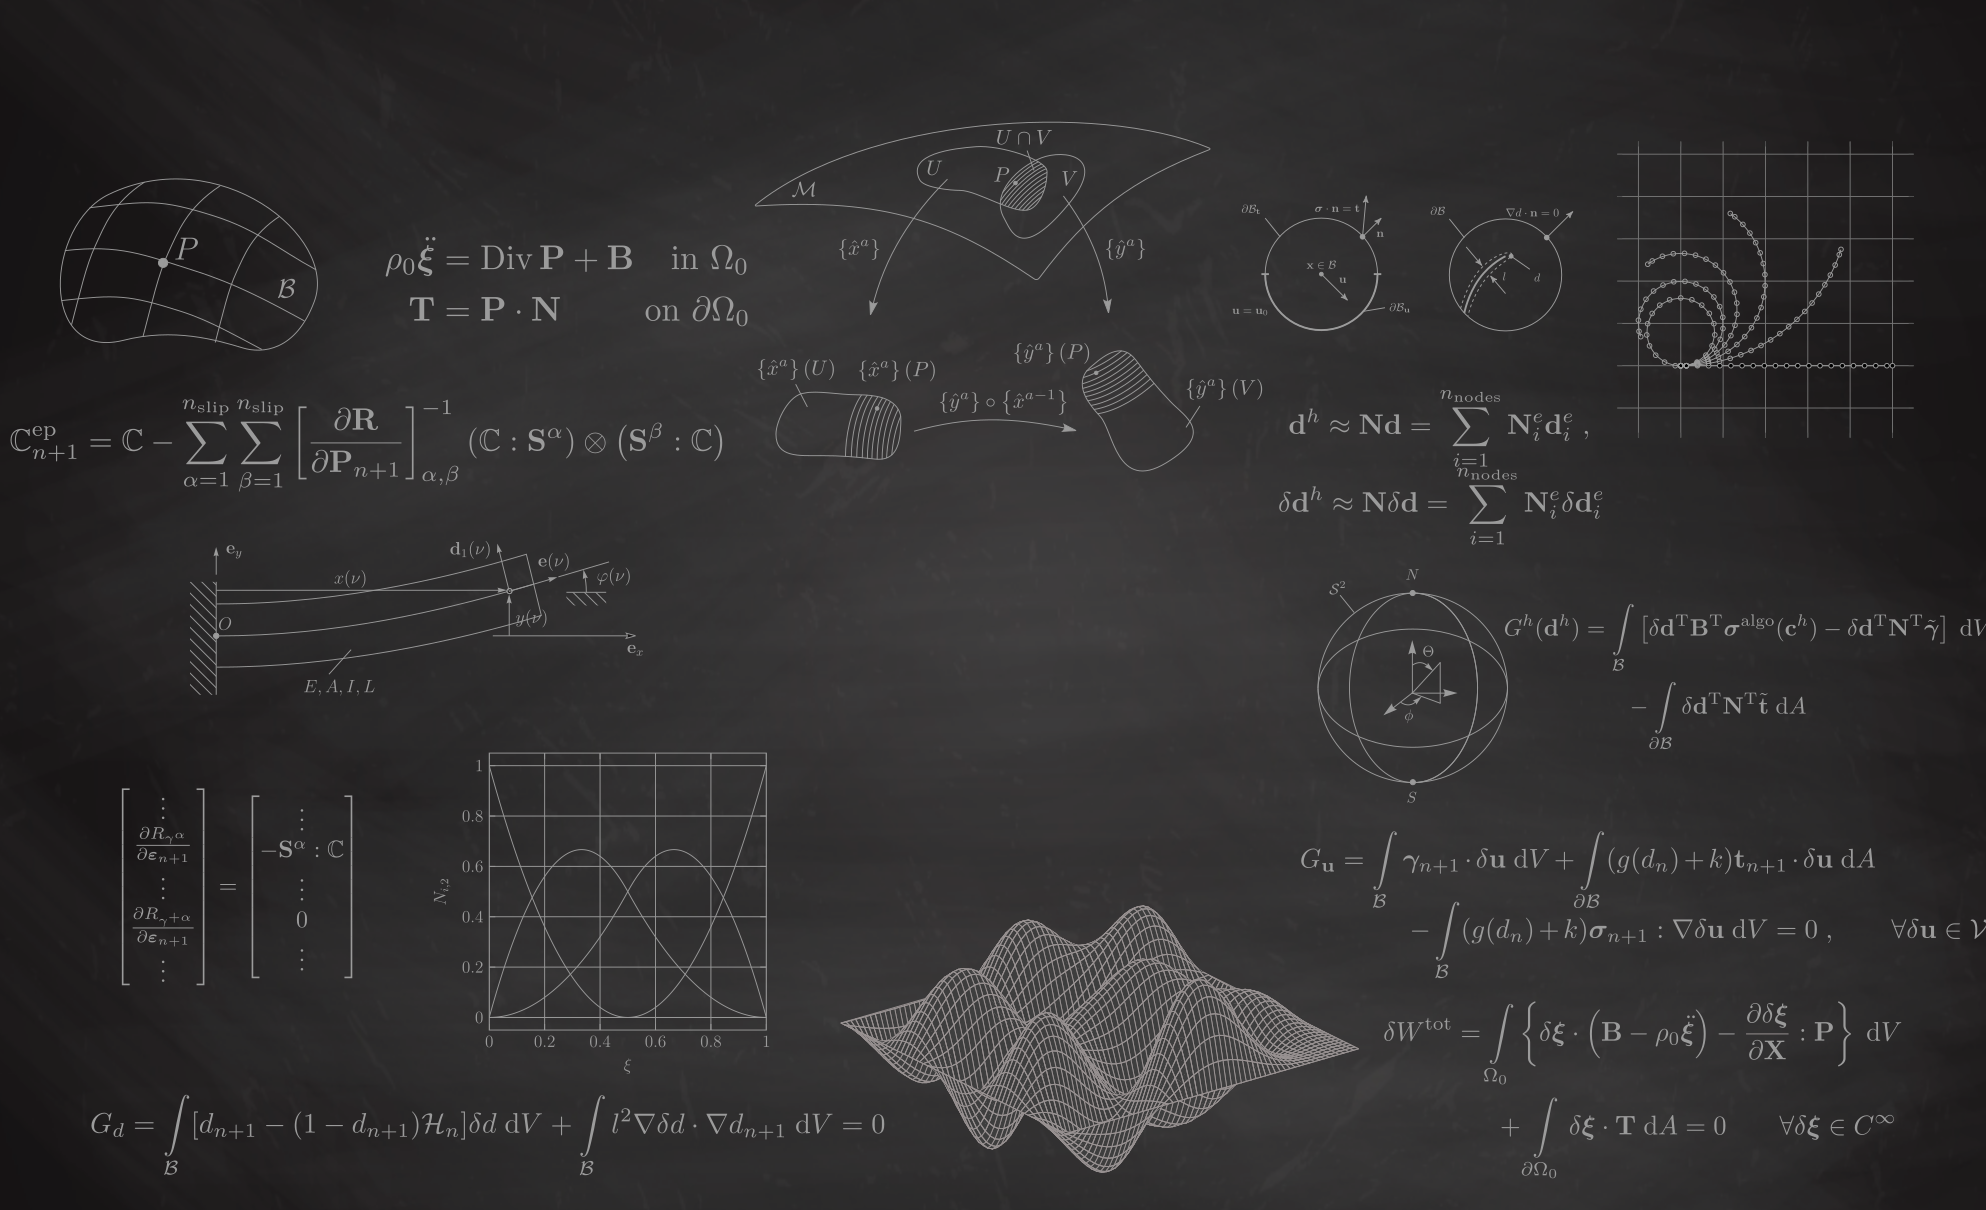
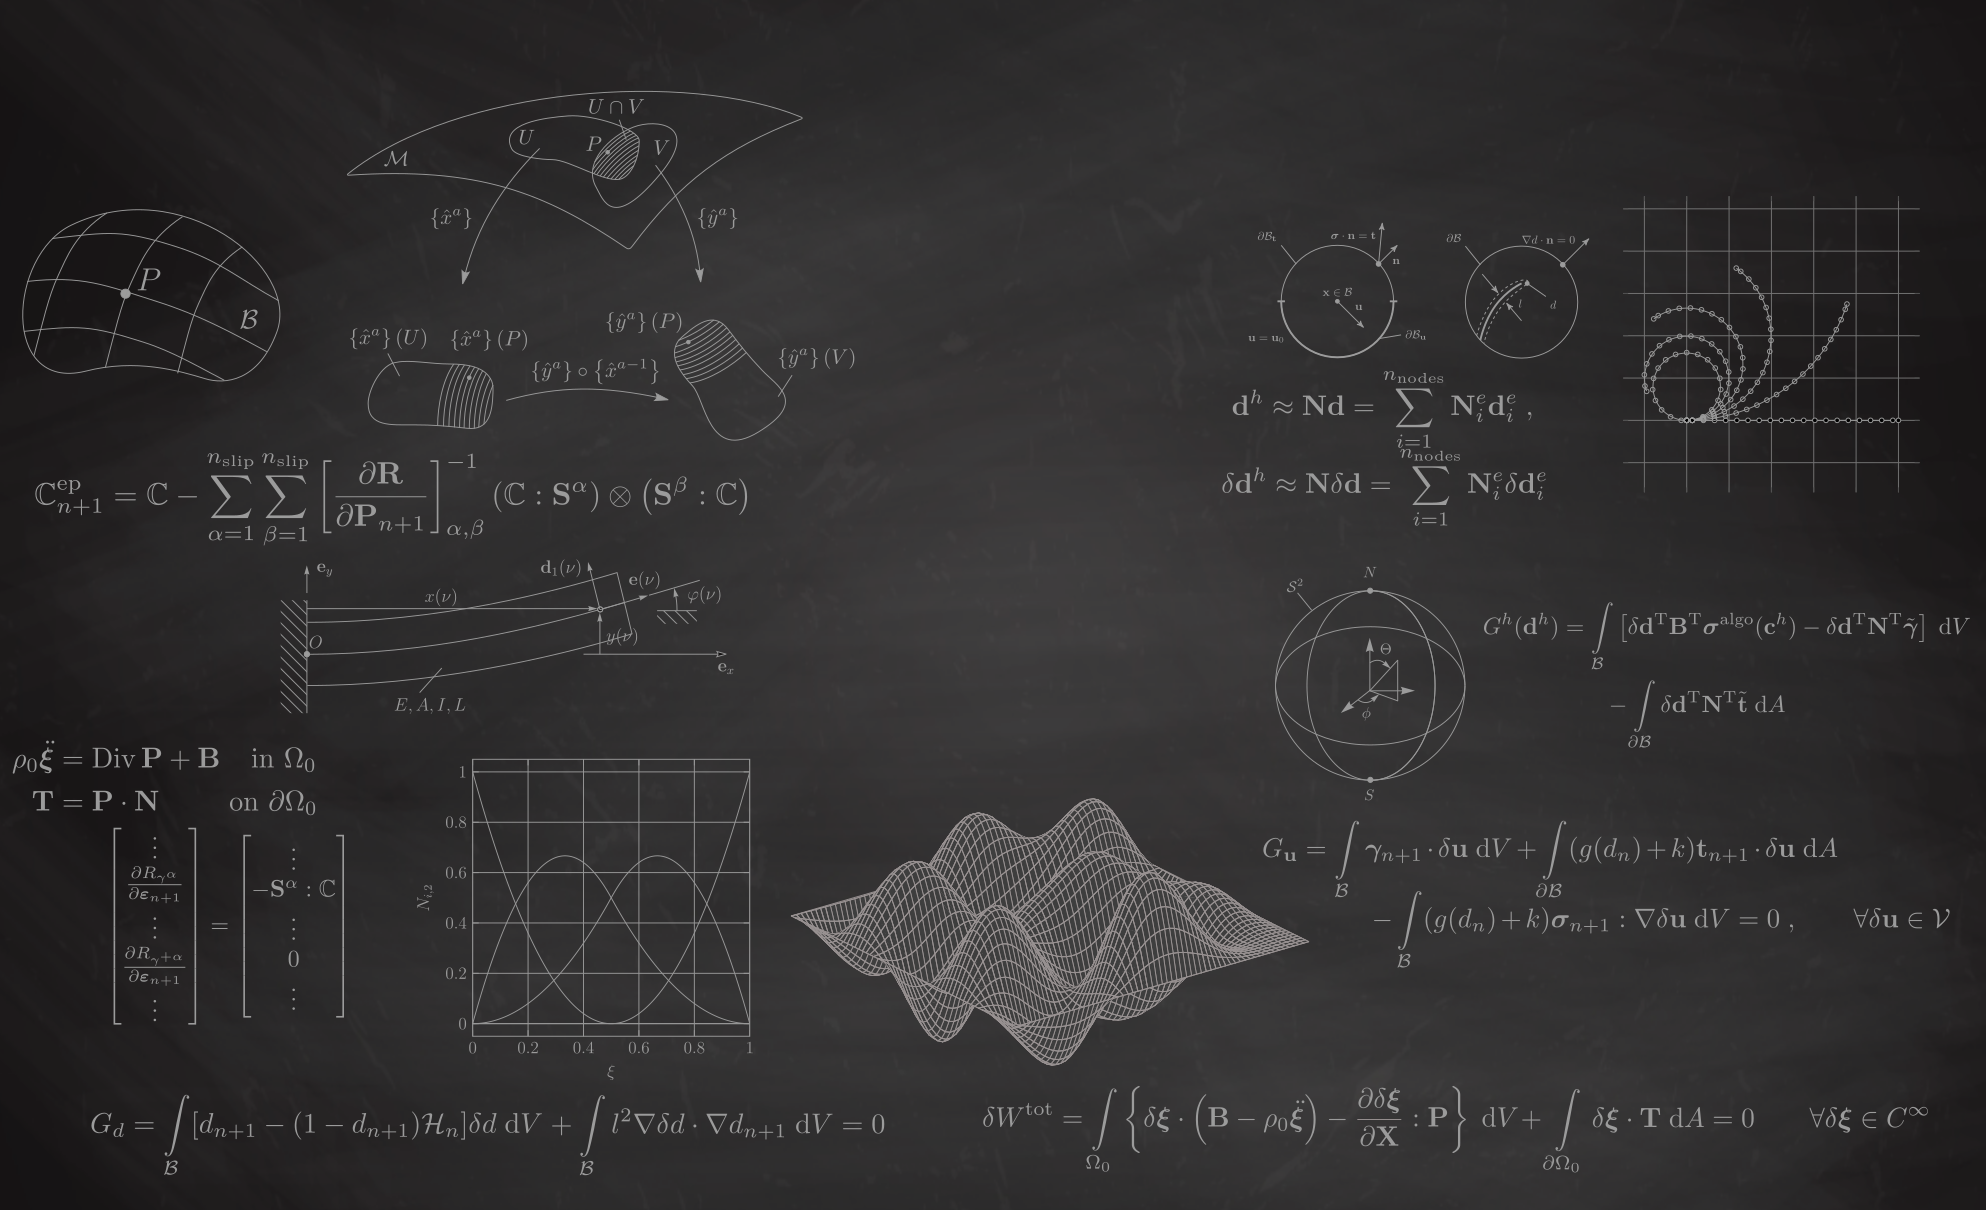
png background.

diff --git a/css/grayscale.css b/css/grayscale.css
@@ -177,8 +177,8 @@ a:hover {
     text-align: center;
     color: #fff;
     /* background: url(../img/intro-bg.jpg) no-repeat bottom center scroll; */
-    /* background: url(../img/bg_new.png) no-repeat bottom center scroll; */
-    background: url(../img/bg_new.svg) no-repeat bottom center scroll;
+    background: url(../img/bg_new.png) no-repeat bottom center scroll;
+    /* background: url(../img/bg_new.svg) no-repeat bottom center scroll; */
     background-color: #000;
     -webkit-background-size: cover;
     -moz-background-size: cover;
